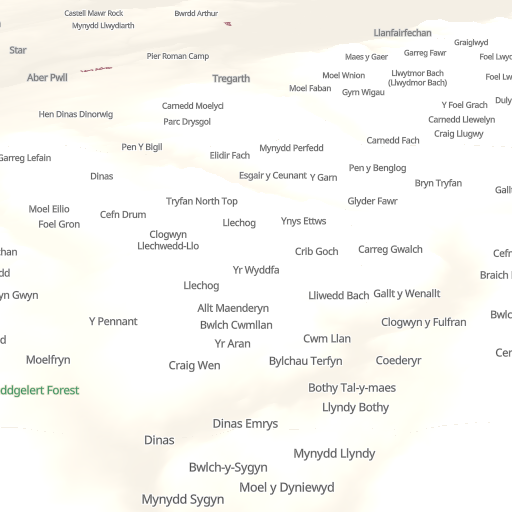
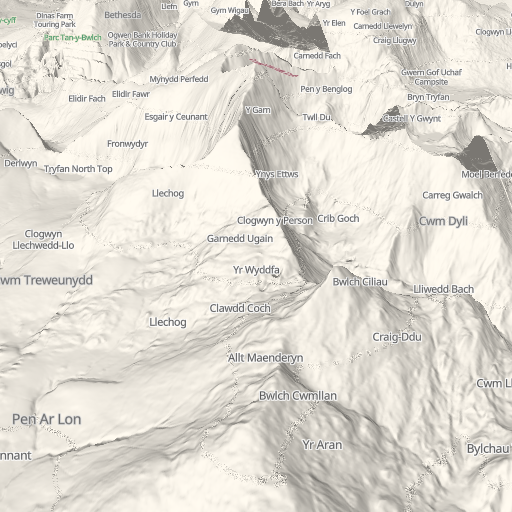
letsgothru: real DEM-gradient hillshade in terrain fragment shader
Replace the Phase 3 "soft elevation tint" with a proper hillshade so the 3D
relief reads clearly, even where the draped basemap is near-uniform (the
Snowdonia cream basemap looked flat/hazy before).

The DEM texture is already bound to both shader stages (mtl/texture2d.cpp),
so the fragment stage now samples the four neighbouring DEM texels, decodes
Terrarium elevation, estimates the surface normal, and lights it with a fixed
NW directional source (cartographic convention). zScale folds in
props.exaggeration so the shading tracks the geometric relief. Applied to both
the draped-basemap and elevation-ramp fallback paths; removed the debug grid.

Tunables: zScale (0.04) and lightDir. Refreshed RENDERED-continuous-*.png show
the mesh-only and full-style results.

diff --git a/include/mbgl/shaders/mtl/terrain.hpp b/include/mbgl/shaders/mtl/terrain.hpp
@@ -112,52 +112,64 @@ FragmentStage vertex vertexMain(thread const VertexStage vertx [[stage_in]],
     };
 }
 
+// letsgothru/terrain-3d: decode one Terrarium DEM sample (normalized [0,1]
+// RGBA) to elevation in metres. Mirrors the vertex-stage decode.
+static inline float lgtDecodeTerrarium(float4 s) {
+    return (s.r * 255.0 * 256.0 + s.g * 255.0 + s.b * 255.0 / 256.0) - 32768.0;
+}
+
 half4 fragment fragmentMain(FragmentStage in [[stage_in]],
                             device const TerrainEvaluatedPropsUBO& props [[buffer(idTerrainEvaluatedPropsUBO)]],
+                            texture2d<float, access::sample> demTexture [[texture(0)]],
+                            sampler demSampler [[sampler(0)]],
                             texture2d<float, access::sample> mapTexture [[texture(1)]],
                             sampler mapSampler [[sampler(1)]]) {
 #if defined(OVERDRAW_INSPECTOR)
     return half4(1.0);
 #endif
 
-    // Sample the map texture (render-to-texture output) for the surface color
-    // Note: Y-coordinate is flipped (1.0 - y) to match OpenGL convention
+    // --- Hillshade from the DEM gradient ---------------------------------
+    // Estimate the surface normal from the elevation of the four neighbouring
+    // DEM texels, then light it with a fixed directional source. This makes the
+    // 3D relief read clearly even where the draped basemap is near-uniform.
+    const float2 texel = float2(1.0 / float(demTexture.get_width()),
+                                1.0 / float(demTexture.get_height()));
+    const float hL = lgtDecodeTerrarium(demTexture.sample(demSampler, in.uv - float2(texel.x, 0.0)));
+    const float hR = lgtDecodeTerrarium(demTexture.sample(demSampler, in.uv + float2(texel.x, 0.0)));
+    const float hD = lgtDecodeTerrarium(demTexture.sample(demSampler, in.uv - float2(0.0, texel.y)));
+    const float hU = lgtDecodeTerrarium(demTexture.sample(demSampler, in.uv + float2(0.0, texel.y)));
+
+    // Vertical scale relative to horizontal texel spacing; folded with the
+    // terrain exaggeration so the shading tracks the geometric relief.
+    const float zScale = 0.04 * max(props.exaggeration, 0.1);
+    const float3 normal = normalize(float3((hL - hR) * zScale, (hD - hU) * zScale, 1.0));
+    // Light from the NW, moderately high — the cartographic hillshade convention.
+    const float3 lightDir = normalize(float3(-0.5, 0.5, 0.7));
+    const float diffuse = saturate(dot(normal, lightDir));
+    // Ambient floor so shadowed faces keep some of the surface colour.
+    const float shade = 0.5 + 0.55 * diffuse;
+
+    // --- Surface colour ---------------------------------------------------
+    // Sample the draped basemap (render-to-texture). Y is flipped to match the
+    // GL convention used when populating the FBO.
     float4 mapColor = mapTexture.sample(mapSampler, float2(in.uv.x, 1.0 - in.uv.y));
 
-    // If map texture has valid data, use it; otherwise fall back to elevation-based coloring
-    // Check if alpha is > 0 to detect valid map data
+    float3 base;
     if (mapColor.a > 0.01) {
-        // letsgothru/terrain-3d: brighten by elevation so the relief shape is
-        // visible on a near-uniform basemap. The mesh is already elevated in
-        // the vertex stage; this just bakes a soft elevation tint into the
-        // surface color so flat-lit fragments don't hide the geometry.
-        // A proper hillshade (computed from DEM gradient + light direction)
-        // is a follow-up.
-        const float relief = clamp(in.elevationMeters / 1500.0, -0.4, 0.6);
-        const float3 shaded = float3(mapColor.rgb) * (1.0 + relief * 0.6);
-        return half4(half3(shaded), 1.0);
-    }
-
-    // Fallback: elevation-based color gradient for debugging
-    float elevation = in.elevation;
-    float normalizedElevation = clamp((elevation - 500.0) / 3500.0, 0.0, 1.0);
-
-    float3 color;
-    if (normalizedElevation < 0.33) {
-        float t = normalizedElevation / 0.33;
-        color = mix(float3(0.2, 0.4, 0.8), float3(0.3, 0.7, 0.3), t);
-    } else if (normalizedElevation < 0.66) {
-        float t = (normalizedElevation - 0.33) / 0.33;
-        color = mix(float3(0.3, 0.7, 0.3), float3(0.6, 0.5, 0.3), t);
+        base = float3(mapColor.rgb);
     } else {
-        float t = (normalizedElevation - 0.66) / 0.34;
-        color = mix(float3(0.6, 0.5, 0.3), float3(0.95, 0.95, 0.95), t);
+        // Fallback elevation ramp for when no basemap has been draped yet.
+        const float n = clamp((in.elevation - 500.0) / 3500.0, 0.0, 1.0);
+        if (n < 0.33) {
+            base = mix(float3(0.2, 0.4, 0.8), float3(0.3, 0.7, 0.3), n / 0.33);
+        } else if (n < 0.66) {
+            base = mix(float3(0.3, 0.7, 0.3), float3(0.6, 0.5, 0.3), (n - 0.33) / 0.33);
+        } else {
+            base = mix(float3(0.6, 0.5, 0.3), float3(0.95, 0.95, 0.95), (n - 0.66) / 0.34);
+        }
     }
 
-    float gridLine = step(0.98, fract(in.uv.x * 4.0)) + step(0.98, fract(in.uv.y * 4.0));
-    color = mix(color, float3(1.0, 1.0, 1.0), gridLine * 0.5);
-
-    return half4(half3(color), 1.0);
+    return half4(half3(base * shade), 1.0);
 }
 )";
 };

diff --git a/docs/letsgothru/PROGRESS.md b/docs/letsgothru/PROGRESS.md
@@ -89,7 +89,25 @@ The `Terrain drawable skipped: ... hasPass=0` log lines are benign — that's th
 opaque pass correctly skipping the translucent terrain drawable; it draws in
 the translucent pass.
 
+### Hillshade (DEM-gradient lighting)
+
+Replaced the Phase 3 "soft elevation tint" with a real hillshade computed in the
+terrain fragment shader (`include/mbgl/shaders/mtl/terrain.hpp`). The DEM
+texture is already bound to both stages (`mtl/texture2d.cpp:274`), so the
+fragment stage samples the four neighbouring DEM texels, decodes Terrarium
+elevation, estimates the surface normal, and lights it with a fixed NW source
+(cartographic convention). The vertical scale folds in `props.exaggeration` so
+shading tracks the geometric relief. Applied to both the draped-basemap path
+and the elevation-ramp fallback; removed the debug grid lines.
+
+This is the main "see the 3D better" fix — relief now reads clearly even where
+the draped basemap is near-uniform (the Snowdonia cream basemap). Tunables:
+`zScale` (0.04) and `lightDir`. See the refreshed `RENDERED-continuous-*.png`.
+
 ### Files touched, Phase 4
+
+- `include/mbgl/shaders/mtl/terrain.hpp` — DEM-gradient hillshade in the
+  fragment shader (replaces the soft elevation tint).
 
 - `src/mbgl/renderer/render_terrain.cpp` — incremental terrain update
   (create-on-first-sight + evict + per-frame RTT-texture rebind); removed the
